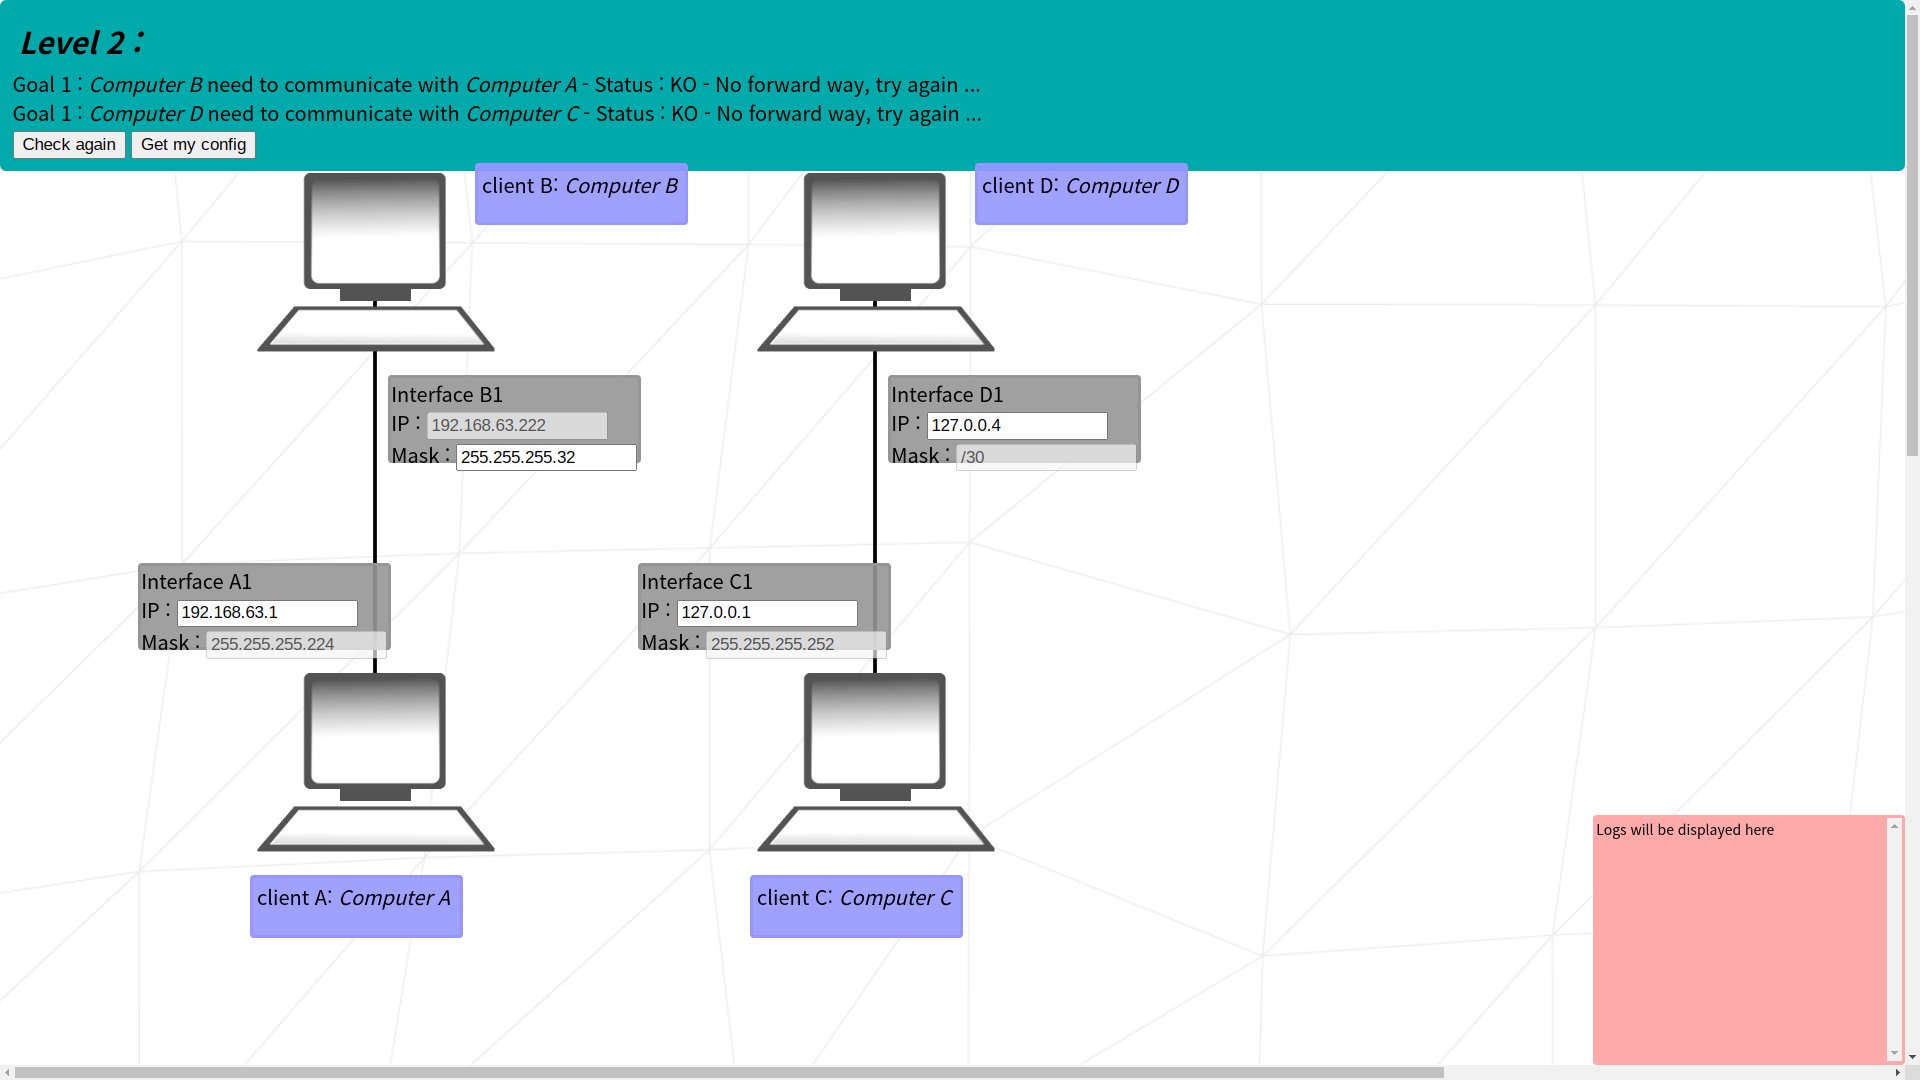
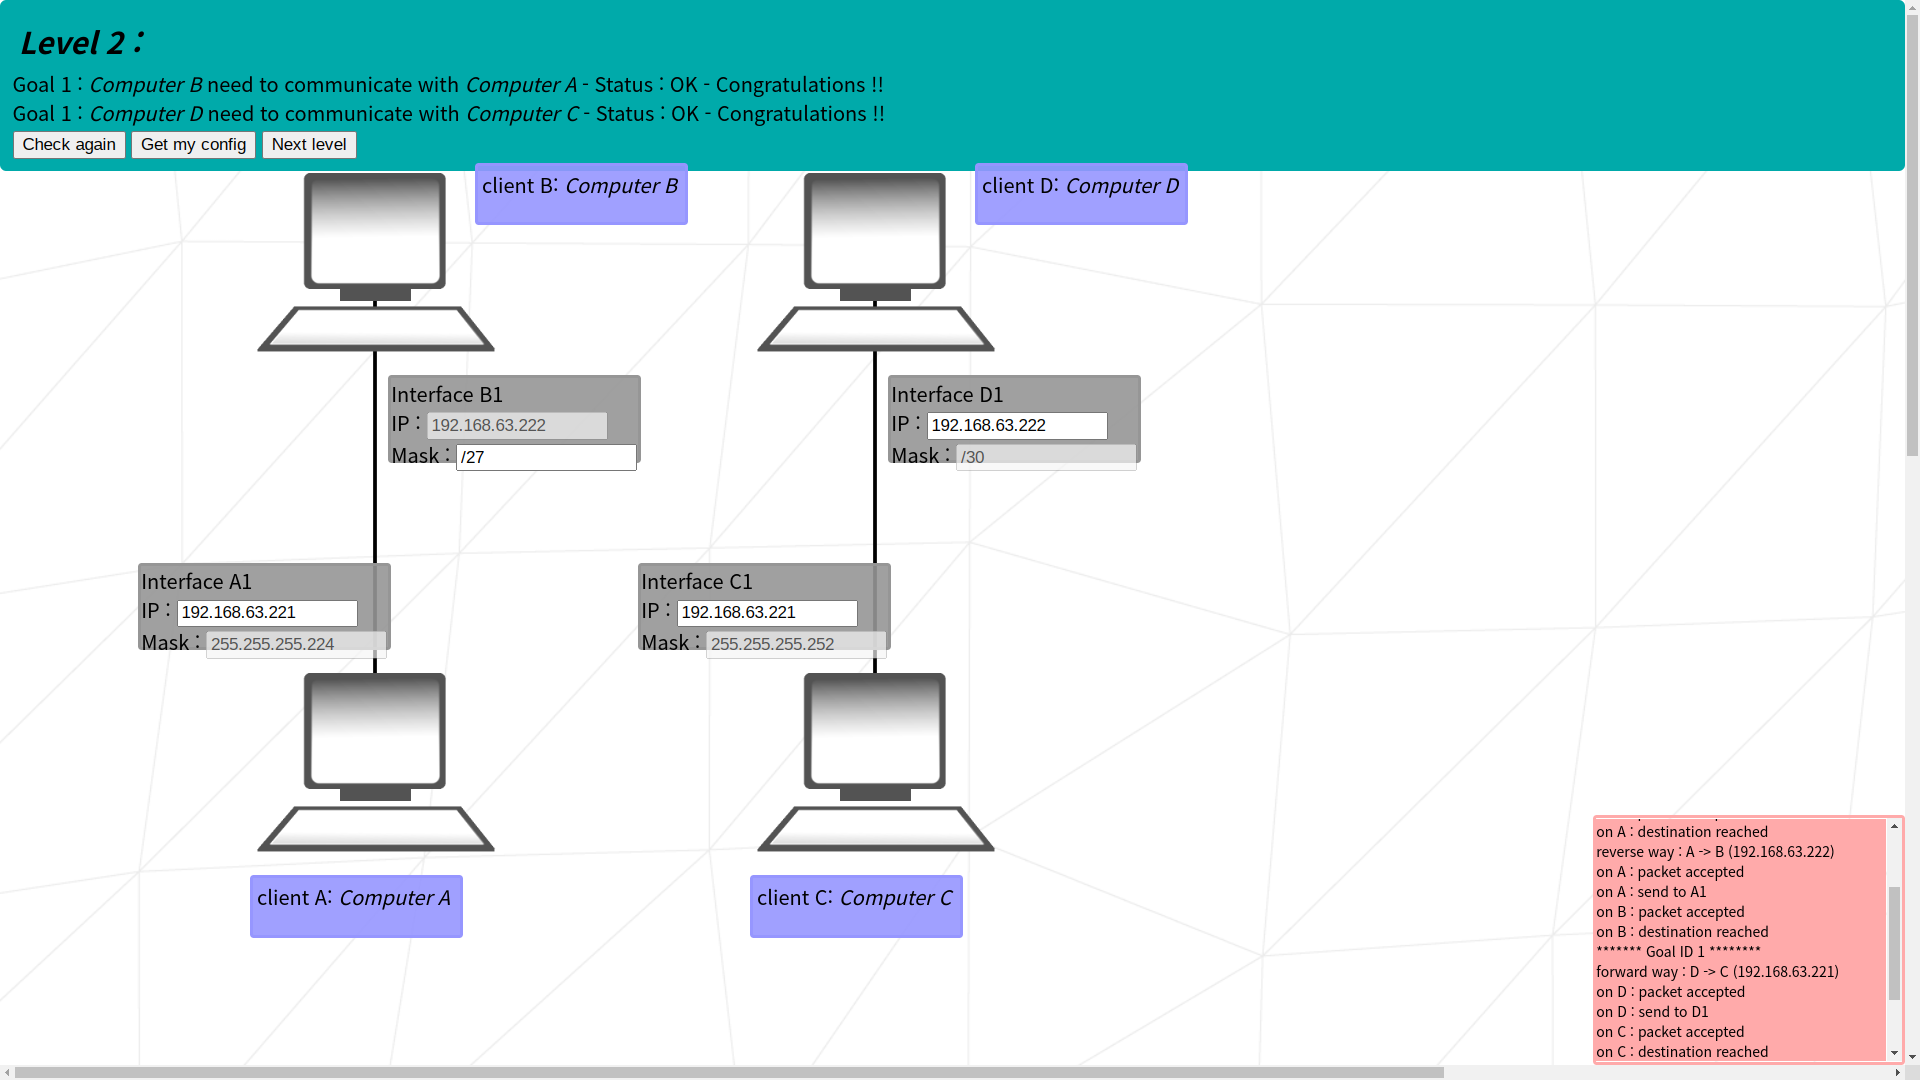
feat: :sparkles: ~ level 04

diff --git a/README.md b/README.md
@@ -2,7 +2,10 @@
 
 internet protocol or: how i learned to stop worrying and love the router
 
+
+[references](https://github.com/lpaube/NetPractice)
 korean translation comming soon (ish)
+
 
 ## Things to remember
 
@@ -24,9 +27,9 @@ korean translation comming soon (ish)
 - first and last of an address range is reserved
   - first: network ID address
   - last: broadcast address
+
 ### Interface
 
-- lines connecting internet devices are a lie! (maybe?)
 - network is like shouting numbers at each other
 - so individual's address must not overlap with others
 - interfaces will decide to only listen to numbers within their range
@@ -50,11 +53,9 @@ korean translation comming soon (ish)
 ## levels
 
 ### level 01
-<details>
-    <summary>screenshot</summary>
-    <img src="img/01.png" />
-</details>
+![](img/01.png)
 
+<!---
 ```mermaid
 flowchart BT
 subgraph goal02
@@ -68,25 +69,24 @@ subgraph goal01
     A1["ip:???\nCIDR:/24"]  -.- |interface A1| A{{"client A"}}
 end
 ```
+-->
 
 #### goal 01
 - A and B are on the same network, so their network address must match
-- since B's address is 104.98.23.12 and CIDR is /24 -> network address: `104.98.23.0`
-- any ip address within `104.98.23.1 ~ 104.98.23.254` are within samw network 'called' `104.98.23.0`
+- since B's address is 104.98.23.12 and CIDR is `/24` -> network address: `104.98.23.0`
+- any ip address within `104.98.23.{1 ~ 254}` are within samw network 'called' `104.98.23.0`
 - address of A can be anything within above range
 - except B's, because how are you gonna distinguish between same addresses
 
 #### goal 02
-- same as goal 01 but CIDR is /16
-- so they will listen to any ip address within `211.191.0.1 ~ 211.191.255.254`
+- same as goal 01 but CIDR is `/16`
+- so they will listen to any ip address within `211.191.{0.1 ~ 255.254}`
 - same as goal01
 
 ### level 02
-<details>
-    <summary>screenshot</summary>
-    <img src="img/02.png" />
-</details>
+![](img/02.png)
 
+<!---
 ```mermaid
 flowchart BT
 subgraph goal02
@@ -100,6 +100,32 @@ subgraph goal01
     A1["ip:???\nCIDR:/27"]  -.- |interface A1| A{{"client A"}}
 end
 ```
+-->
 
 #### goal 01
-- client A will listen to `
+- client A and B's subnet mask should match -> `/27`
+- there can be 8 possible network address with usable range of 30 for `/27`
+  - `xxx.xxx.xxx.{0, 32, 64, 96, 128, 160, 192, 224}`
+  - since B's last digits are 222 -> `192.168.63.192/27`
+- A's address can be within `192.168.63.{193 ~ 221}`
+
+#### goal 02
+- same as goal 01 but CIDR is `/30`
+- 64 possible network address with usable range of 2 for `/30`
+  - `xxx.xxx.xxx.{0, 4, 8 ... 252}`
+  - address can be same as goal 01 because these are seperate networks
+
+### level 03
+
+![](img/93.png)
+#### goal 01 ~ 03
+- same as level 02 but with one more client
+- calculated network address and range: [`104.198.197.0/25`](https://www.calculator.net/ip-subnet-calculator.html?cclass=any&csubnet=25&cip=104.198.197.125&ctype=ipv4&printit=0&x=88&y=9)
+  - which means usable host ip range: `104.198.197.1 ~ 104.198.197.126`
+- just don't make their ip overlap
+
+### level 04
+![](img/04.png)
+#### goal 01 ~ 03
+- since all masks are empty -> `75.227.117.0/24` will be easiest
+  - host ip range: `75.227.117.{1 ~ 254}`
